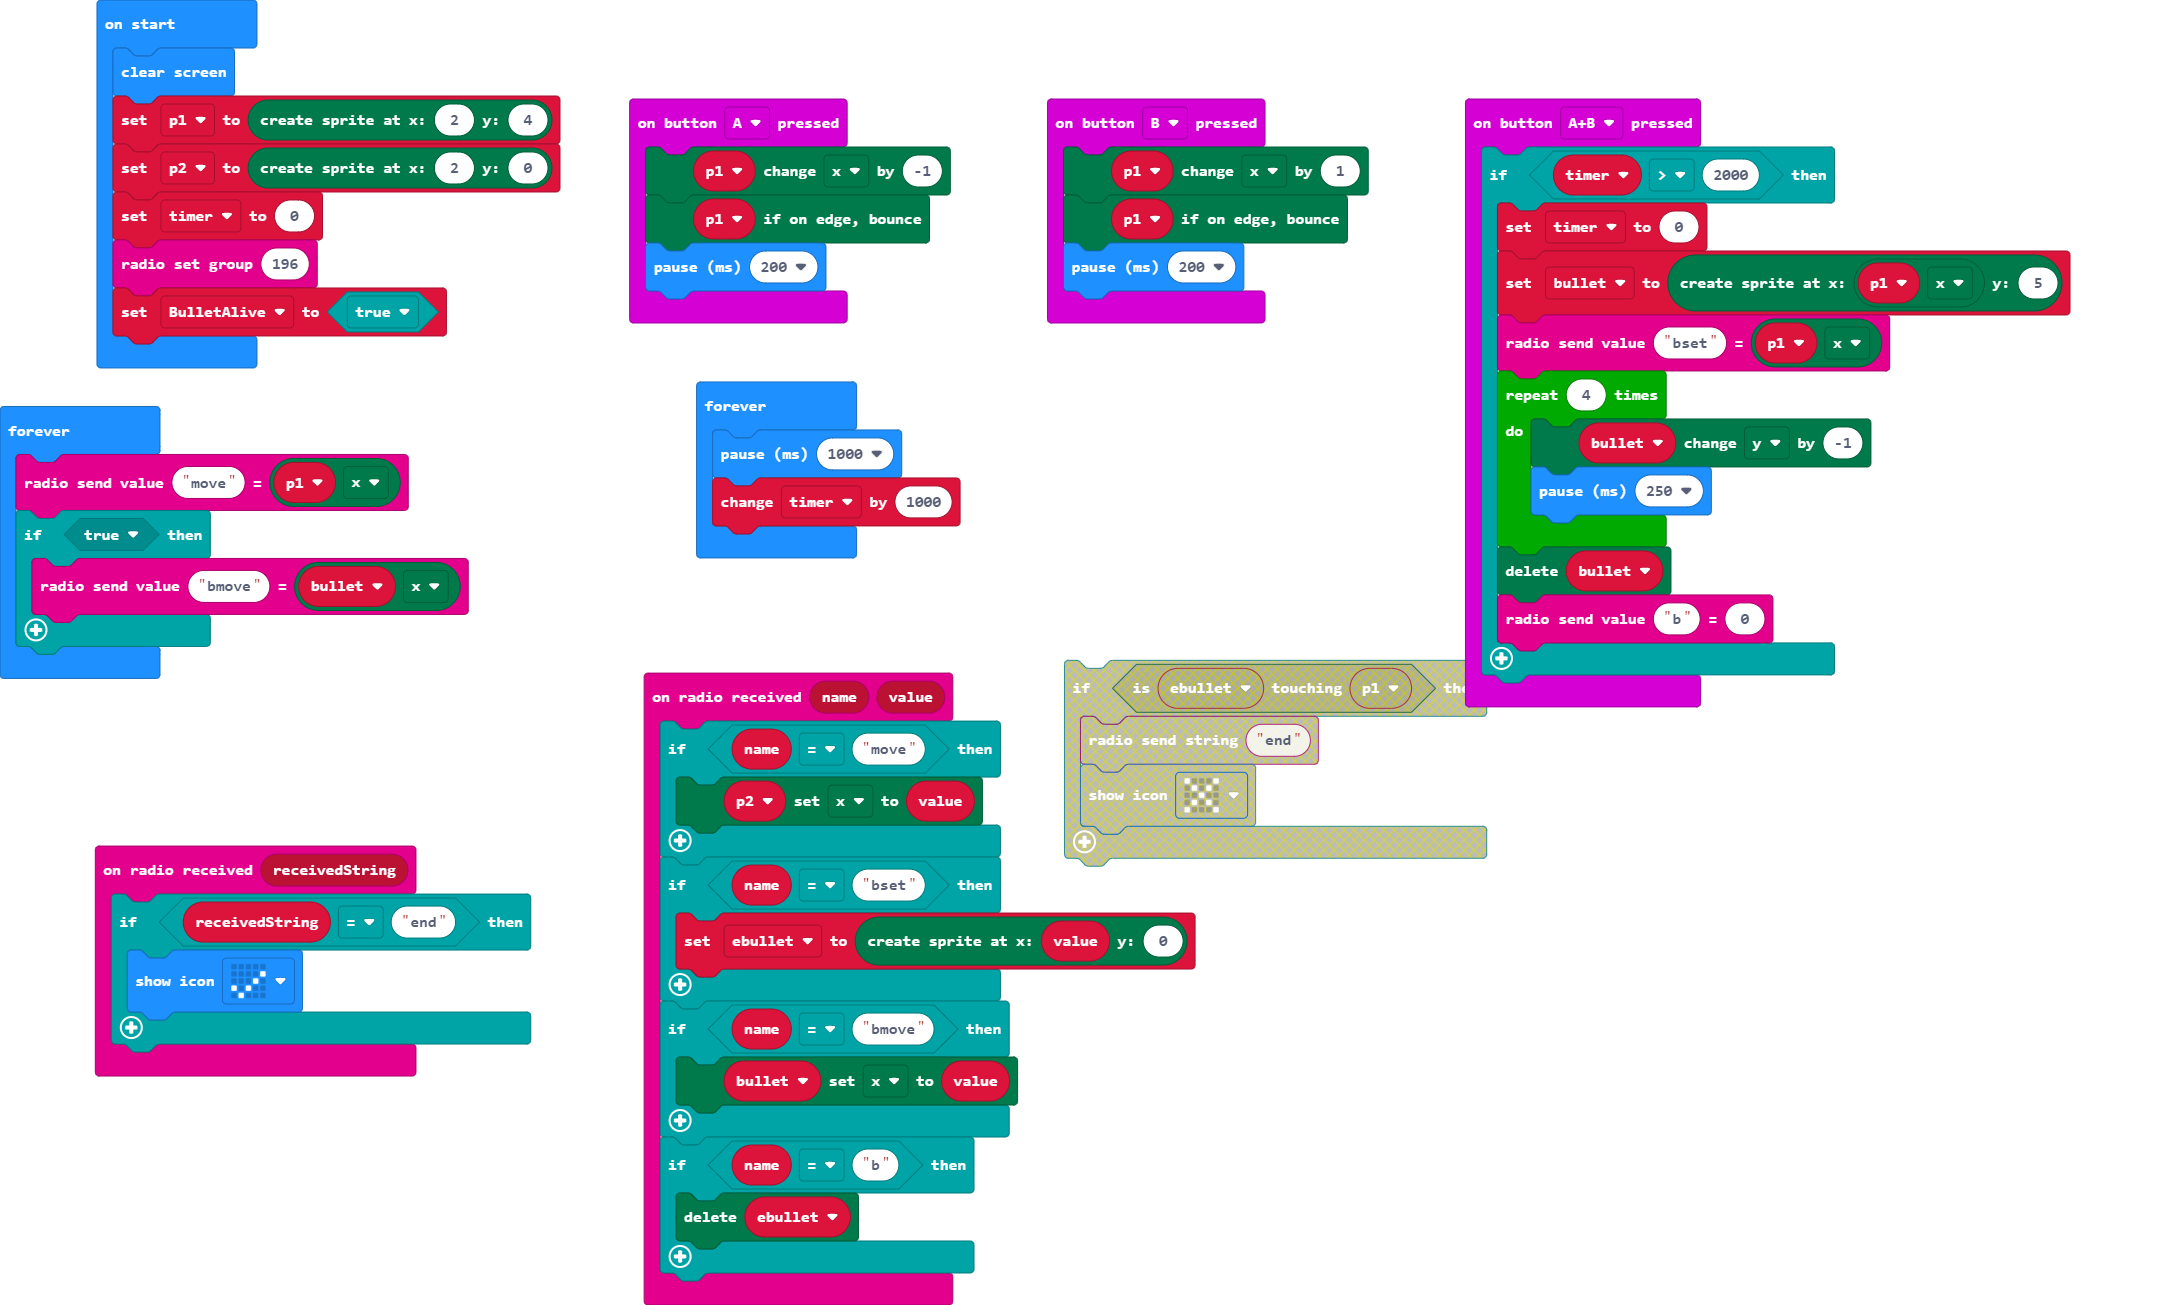
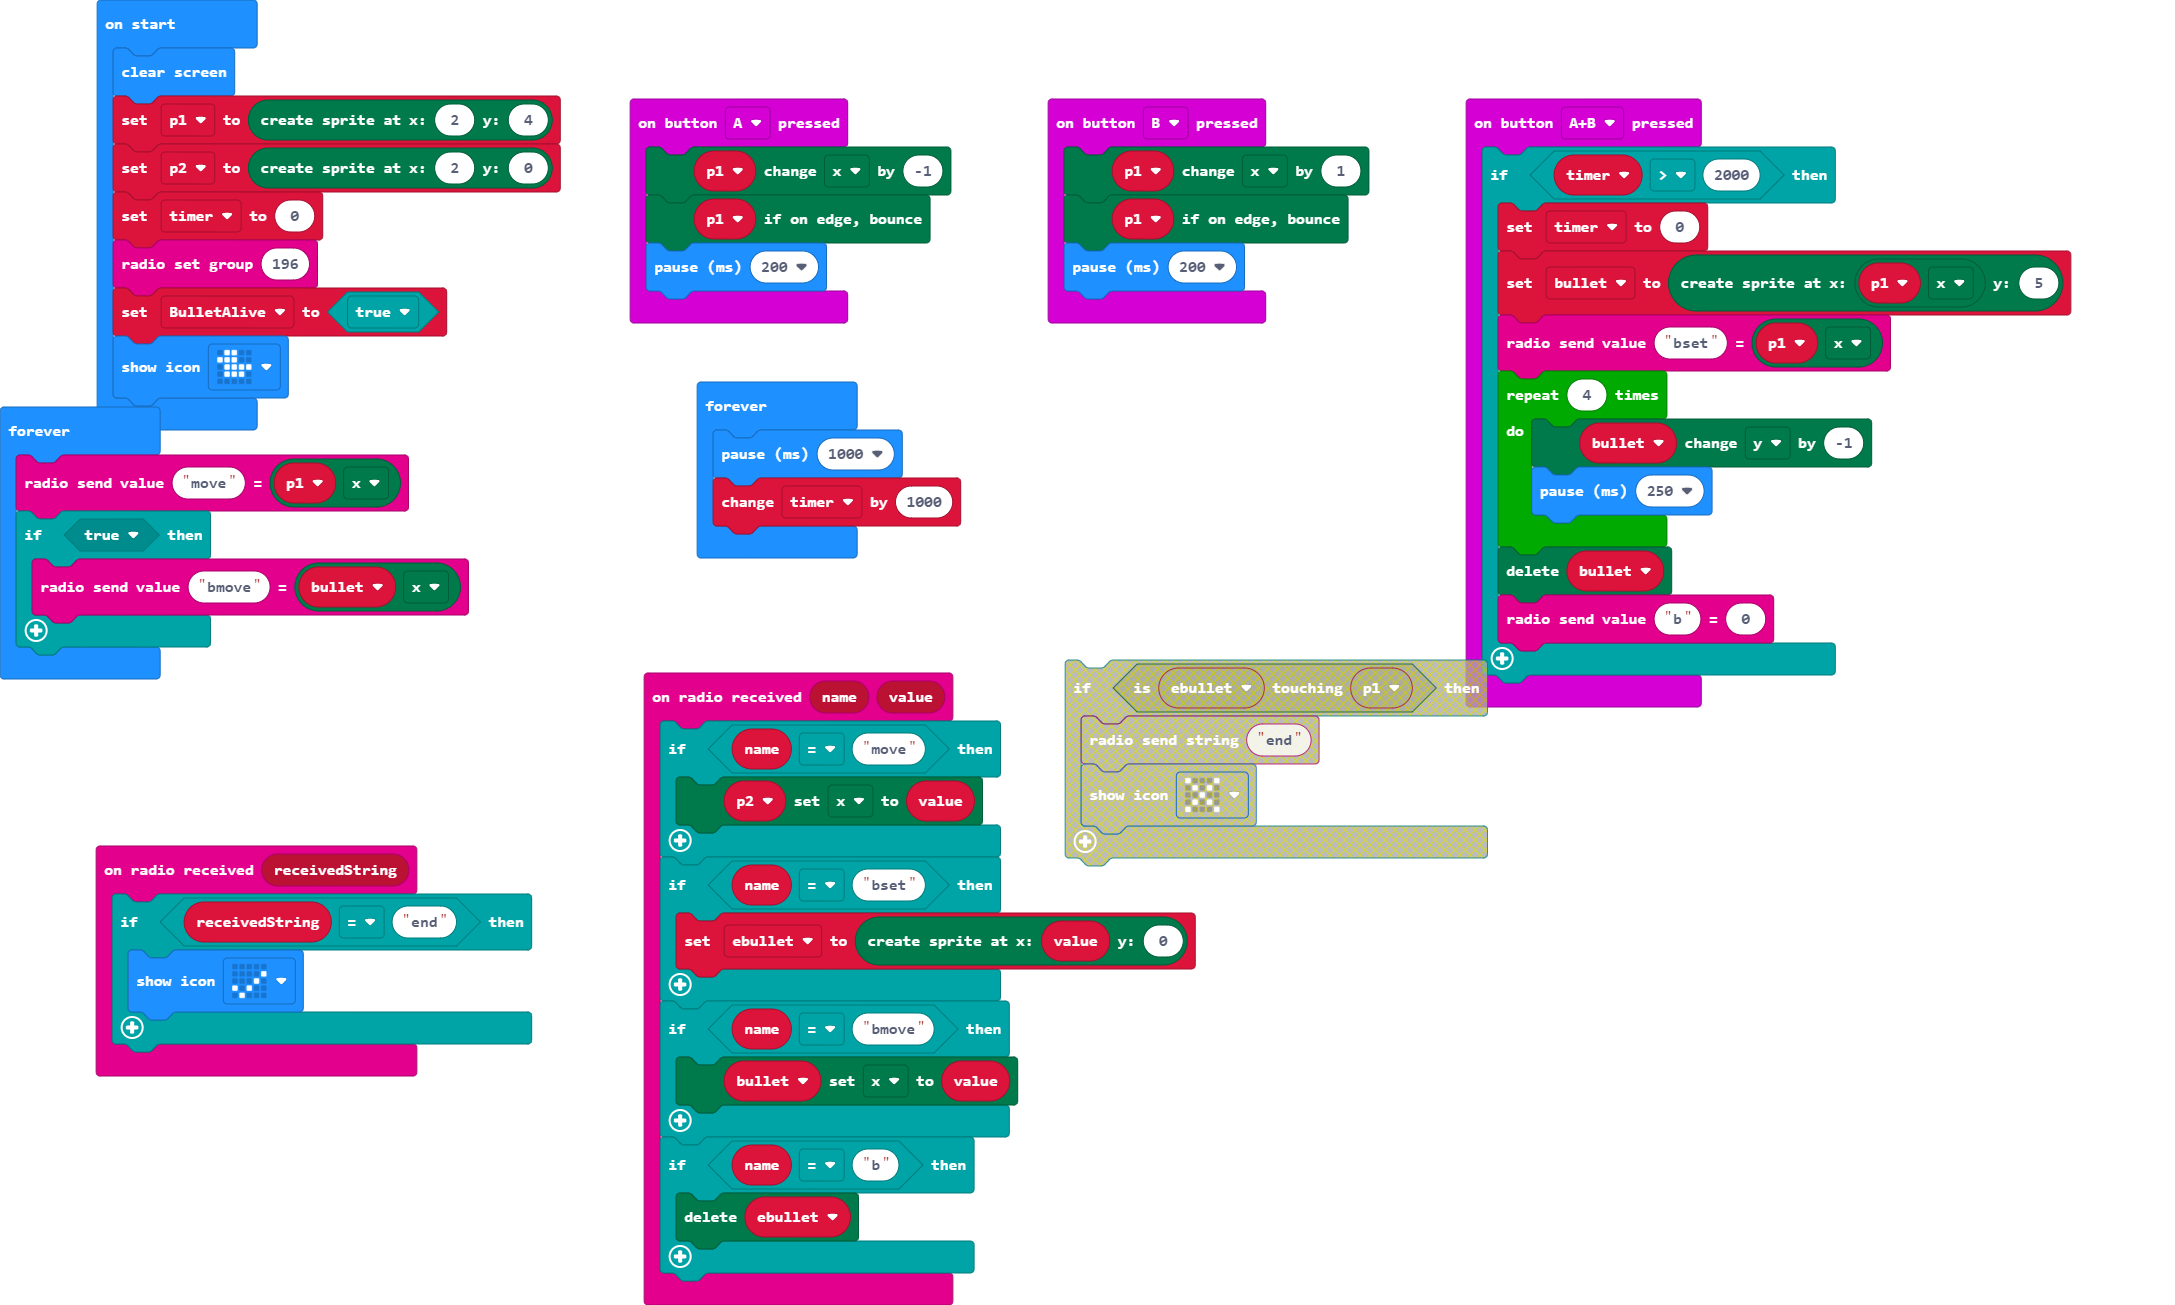
raca

diff --git a/main.ts b/main.ts
@@ -51,6 +51,7 @@ p2 = game.createSprite(2, 0)
 timer = 0
 radio.setGroup(196)
 let BulletAlive = true
+basic.showIcon(IconNames.Duck)
 basic.forever(function () {
     radio.sendValue("move", p1.get(LedSpriteProperty.X))
     if (true) {
